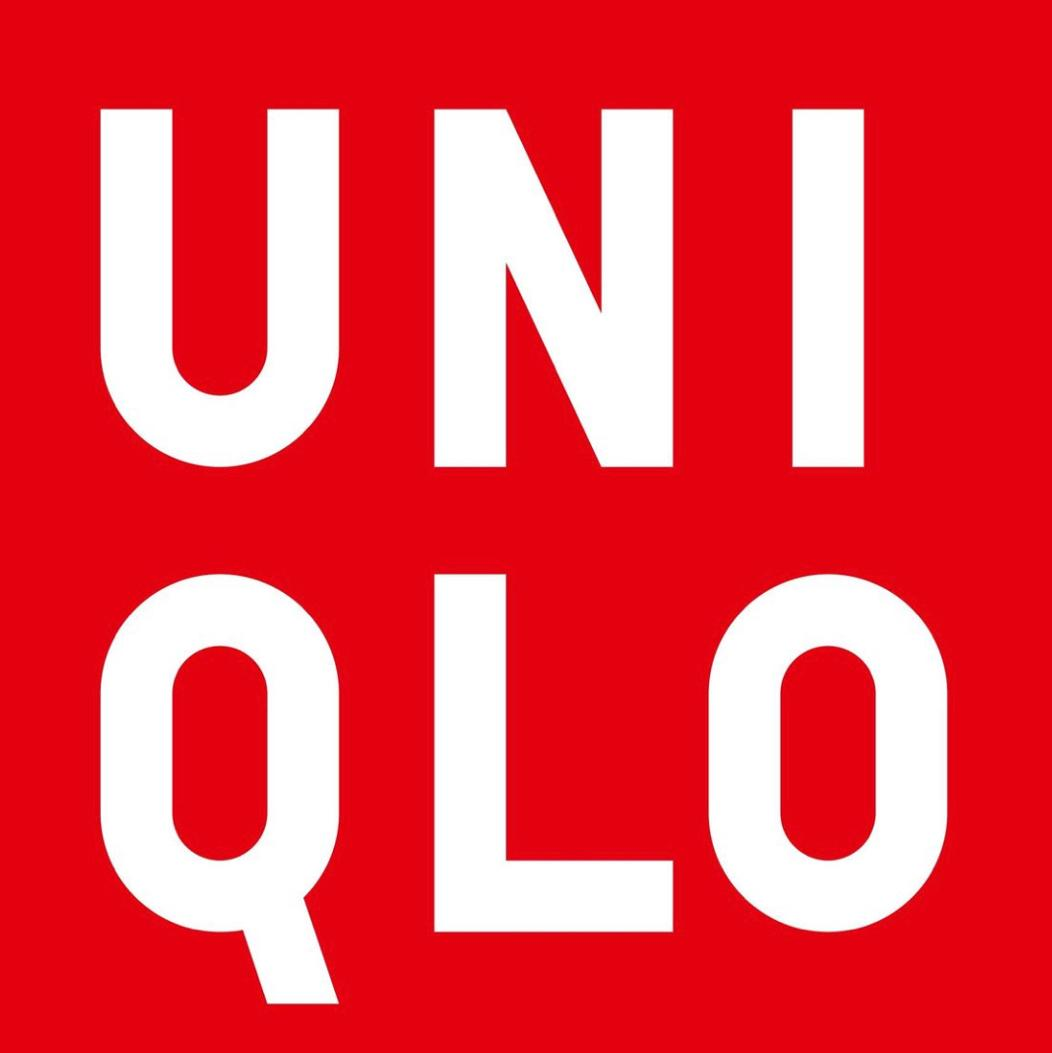
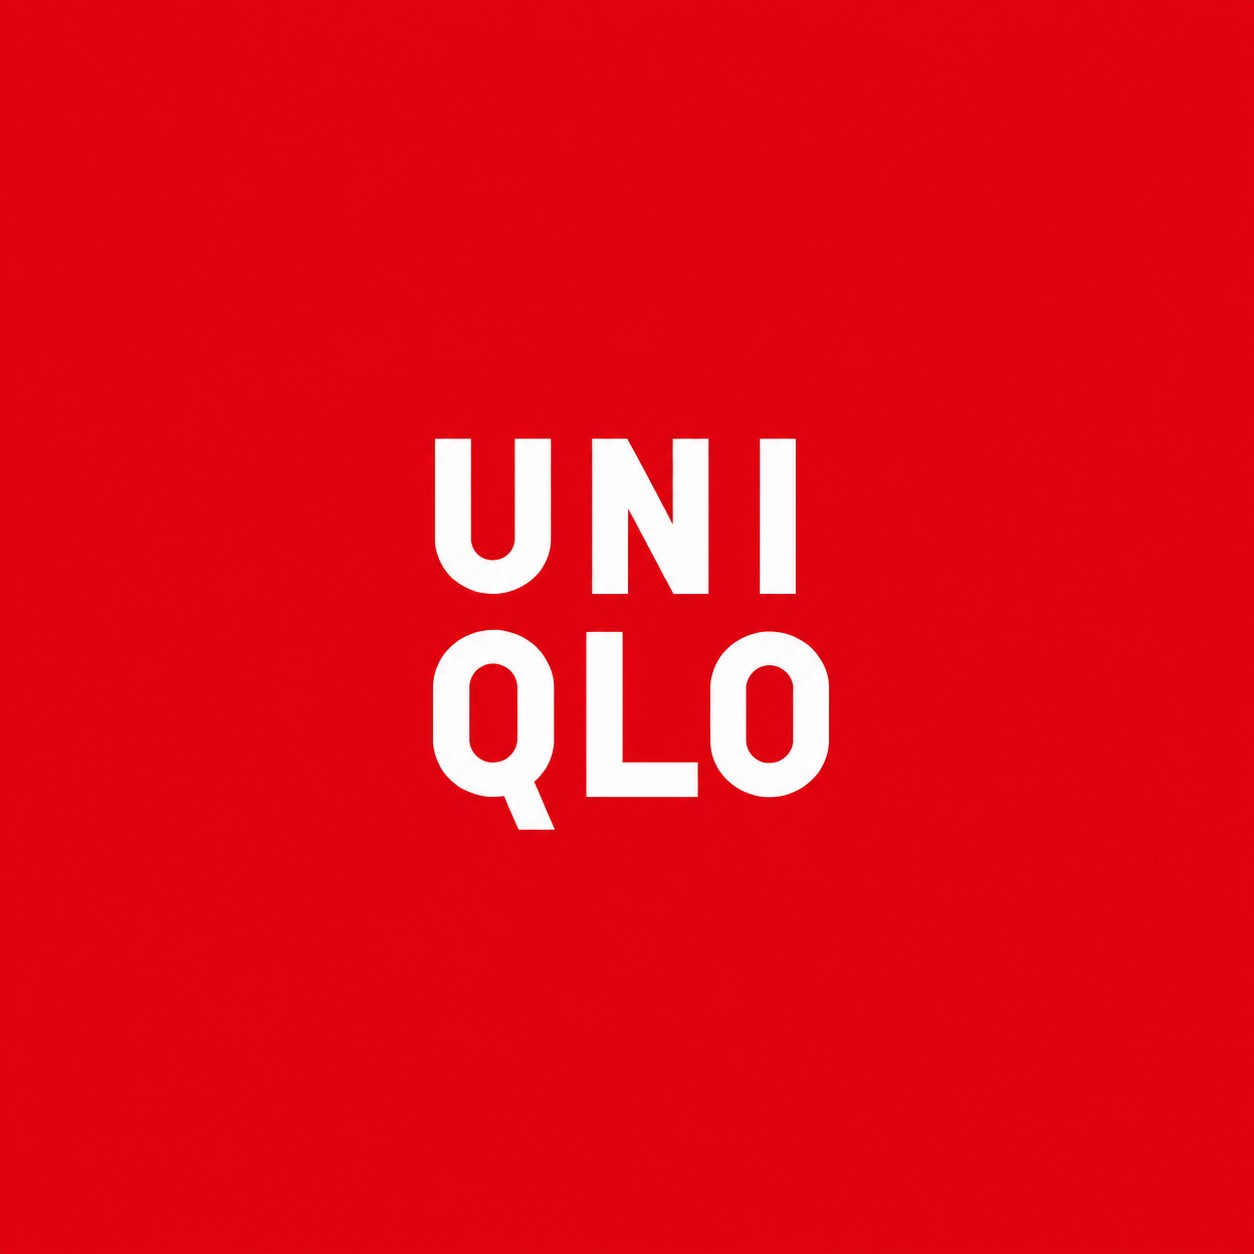
feat: retarget project 1 event photography and tune hero intro
Replaces the page 4 event shots with the new booth frames, assigned to
the slots by shape rather than by filename:

  main left column   page4-main.jpeg, held at 50% 25%
  top row, first     page4.jpeg, spans two rows
  top row, second    page4-top-second.png
  top row, third     page4-top-third.jpeg

The first top-row photo now spans two rows and is contained, so its
portrait frame reads whole with the top edge flush to its neighbours.
That freed space meant the product display moved down to the third row
and now sits beside the feedback documents.

Page 5 card 02 takes the Uniqlo logo shot at scale 1.4, zoomed in
rather than pulled back.

The hero intro holds its own line breaks, is justified, and ProjectHero
gains an introClassName hook to scope that per page.

diff --git a/src/components/marketing/ConceptToLifeSection.tsx b/src/components/marketing/ConceptToLifeSection.tsx
@@ -134,50 +134,59 @@ export const ConceptToLifeSection: React.FC = () => {
             ))}
           </div>
 
-          {/* Wide event photograph — grows so both columns share a baseline */}
+          {/* Main event photograph — grows so both columns share a baseline. Held a
+              little above centre so the top of the tall frame is not cut. */}
           <figure className="mt-5 lg:mt-6 flex-1 min-h-[13rem] lg:min-h-[16rem] rounded-[3px] overflow-hidden">
             <SlidePhoto
               src="/portfolio-assets/04_event_2.jpg"
               alt="College students gathered around a fragrance product presentation table, testing and smelling fragrance samples"
               label="Students Testing Fragrances"
               className="w-full h-full object-cover"
+              style={{ objectPosition: '50% 25%' }}
             />
           </figure>
         </div>
 
         {/* ——— Right column: case-study grid ——— */}
         <div className="flex flex-col gap-5 lg:gap-6">
-          {/* Event photographs — the presenter holds the left half with the
-              product display directly beneath it, the interaction slot is
-              split into two. The metric fills the space opposite. */}
+          {/* Event photographs — the first holds the left column and runs two rows
+              down so its portrait frame reads whole, the other two split the top row
+              beside it. The metric and feedback documents stack opposite, with the
+              product display closing the left column. */}
           <div className="grid grid-cols-[2fr_1fr_1fr] gap-4 lg:gap-6">
-            <figure className="h-48 sm:h-60 lg:h-[22rem] rounded-[3px] overflow-hidden bg-[#FADBD9]/40">
+            {/* First event photograph — spans the two rows beneath its neighbours so
+                the portrait shot reads whole. Top edge stays flush with the other
+                two; object-contain keeps the full frame visible and the plate fill
+                carries the slack. */}
+            <figure className="col-start-1 row-start-1 row-span-2 h-48 sm:h-60 lg:h-auto rounded-[3px] overflow-hidden bg-[#FADBD9]/40">
               <SlidePhoto
                 src="/portfolio-assets/04_event_1.jpg"
                 alt="Students at the college fragrance pitch booth, smelling samples and engaging with the product concept"
                 label="Presenter At Booth"
-                className="w-full h-full object-cover"
+                className="w-full h-full object-contain"
               />
             </figure>
             <figure className="h-48 sm:h-60 lg:h-[22rem] rounded-[3px] overflow-hidden bg-[#FADBD9]/40">
               <SlidePhoto
-                src="/portfolio-assets/04_students_interacting.jpg"
+                src="/portfolio-assets/04_students_interacting.png"
                 alt="Students gathered around the fragrance display, smelling samples and discussing the product concept"
                 label="Students Interacting"
                 className="w-full h-full object-cover"
+                style={{ objectPosition: '50% 25%' }}
               />
             </figure>
             <figure className="h-48 sm:h-60 lg:h-[22rem] rounded-[3px] overflow-hidden bg-[#FADBD9]/40">
               <SlidePhoto
                 src="/portfolio-assets/04_students_at_booth.jpg"
                 alt="Group of college students gathered at the fragrance product pitch booth during the college activation"
+                style={{ objectPosition: '50% 25%' }}
                 label="Students At Booth"
                 className="w-full h-full object-cover"
               />
             </figure>
 
-            {/* Product display — runs the full height of the two rows below the presenter */}
-            <figure className="col-start-1 row-start-2 row-span-2 rounded-[3px] overflow-hidden bg-[#FADBD9]/40">
+            {/* Product display — now the third row, beneath the extended first photograph */}
+            <figure className="col-start-1 row-start-3 h-32 sm:h-44 lg:h-56 rounded-[3px] overflow-hidden bg-[#FADBD9]/40">
               <SlidePhoto
                 src="/portfolio-assets/04_product_display.jpg"
                 alt="Fragrance bottles and cream packaging arranged on the product display table at the pitch booth"
@@ -186,7 +195,7 @@ export const ConceptToLifeSection: React.FC = () => {
               />
             </figure>
 
-            {/* Metric — right-aligned opposite the product display */}
+            {/* Metric — right-aligned opposite the extended photograph */}
             <div className="col-start-2 col-span-2 row-start-2 flex flex-col justify-center text-right py-6">
               <p className="font-display text-5xl sm:text-6xl lg:text-7xl leading-none tracking-tight text-[#3E2723]">
                 25–30+
@@ -196,8 +205,7 @@ export const ConceptToLifeSection: React.FC = () => {
               </p>
             </div>
 
-            {/* Feedback documentation — directly beneath the metric, clear of
-                the product display */}
+            {/* Feedback documentation — beside the product display, beneath the metric */}
             <figure className="col-start-2 col-span-2 row-start-3 h-32 sm:h-44 lg:h-56 rounded-[3px] overflow-hidden bg-[#FADBD9]/40">
               <SlidePhoto
                 src="/portfolio-assets/04_feedback_documents.jpg"

diff --git a/src/data/portfolioData.ts b/src/data/portfolioData.ts
@@ -269,7 +269,7 @@ export const portfolioData = {
     },
     page1And2: {
       context:
-        "The project focused on taking an established fashion brand into a new product category. We chose Uniqlo and explored how its LifeWear philosophy could be extended beyond apparel.\n\nMAPPING THE OPPORTUNITY\nExploring the market, consumer and competitive landscape to identify where Uniqlo could grow.\n\nMARKET POTENTIAL\nFragrance industry growing in India\n+5.6% annual growth\n₹16,000 Cr projected market by 2033\n\nCONSUMER\nMillennials & Gen Z\nValue simplicity & subtle elegance\nFresh, minimal, everyday scents\nProfessionals seeking office-friendly fragrances\n\nCOMPETITIVE SPACE\nZara & H&M already offer fragrances\nUniqlo had no similar sensory category\nOpportunity for a distinctly Japanese, minimal scent\n\nBRAND FIT\nLifeWear → FeelWear\nComfort + simplicity + minimalism\nFragrance as an extension of the Uniqlo lifestyle",
+        "The project focused on taking an established fashion\nbrand into a new product category. We chose Uniqlo\nand explored how its LifeWear philosophy could be\nextended beyond apparel.\n\nMAPPING THE OPPORTUNITY\nExploring the market, consumer and competitive landscape to identify where Uniqlo could grow.\n\nMARKET POTENTIAL\nFragrance industry growing in India\n+5.6% annual growth\n₹16,000 Cr projected market by 2033\n\nCONSUMER\nMillennials & Gen Z\nValue simplicity & subtle elegance\nFresh, minimal, everyday scents\nProfessionals seeking office-friendly fragrances\n\nCOMPETITIVE SPACE\nZara & H&M already offer fragrances\nUniqlo had no similar sensory category\nOpportunity for a distinctly Japanese, minimal scent\n\nBRAND FIT\nLifeWear → FeelWear\nComfort + simplicity + minimalism\nFragrance as an extension of the Uniqlo lifestyle",
       brief: "We used SWOT, Porter’s Five Forces, STP, 7Ps, Ansoff and BCG to structure the analysis."
     },
     page3DesignDecisions: [

diff --git a/src/components/ProjectHero.tsx b/src/components/ProjectHero.tsx
@@ -18,6 +18,8 @@ export interface ProjectHeroProps {
   intro?: string;
   /** Extra classes for the cover <img>, e.g. a responsive object-position. */
   imageClassName?: string;
+  /** Extra classes for the intro paragraph, e.g. justify or a tighter measure. */
+  introClassName?: string;
 }
 
 /**
@@ -38,6 +40,7 @@ export const ProjectHero: React.FC<ProjectHeroProps> = ({
   subtitle,
   intro,
   imageClassName = '',
+  introClassName = '',
 }) => {
   return (
     <section className="mb-14 lg:mb-20">
@@ -86,7 +89,9 @@ export const ProjectHero: React.FC<ProjectHeroProps> = ({
             )}
 
             {intro && (
-              <p className="font-body text-sm sm:text-base text-[#3E2723]/80 leading-loose lg:max-w-[52ch]">
+              <p
+                className={`font-body text-sm sm:text-base text-[#3E2723]/80 leading-loose whitespace-pre-line lg:max-w-[52ch] ${introClassName}`}
+              >
                 {intro}
               </p>
             )}

diff --git a/src/components/marketing/ProjectLearnedSection.tsx b/src/components/marketing/ProjectLearnedSection.tsx
@@ -27,9 +27,9 @@ const cards: LearningCard[] = [
     title: 'STRATEGIC BRAND\nEXTENSION',
     body: 'Learned how to evaluate whether a new product category fits an existing brand identity and positioning.',
     src: '/portfolio-assets/05_brand_extension.jpg',
-    alt: 'Close-up of cream fabric with the red Uniqlo logo card placed on the textile',
+    alt: 'Uniqlo LifeWear brand identity, the red square logo mark against the brand’s minimal packaging',
     label: 'Brand Extension',
-    scale: 0.7,
+    scale: 1.4,
   },
   {
     num: '03',

diff --git a/src/pages/ProjectMarketingPage.tsx b/src/pages/ProjectMarketingPage.tsx
@@ -21,6 +21,7 @@ export const ProjectMarketingPage: React.FC = () => {
         title={'A NEW DIMENSION\nOF LIFEWEAR'}
         subtitle="UNIQLO X FRAGRANCES"
         intro={pm.page1And2.context.split('\n\n')[0]}
+        introClassName="text-justify"
         imageClassName="object-[52%_45%] lg:object-center"
       />
 
